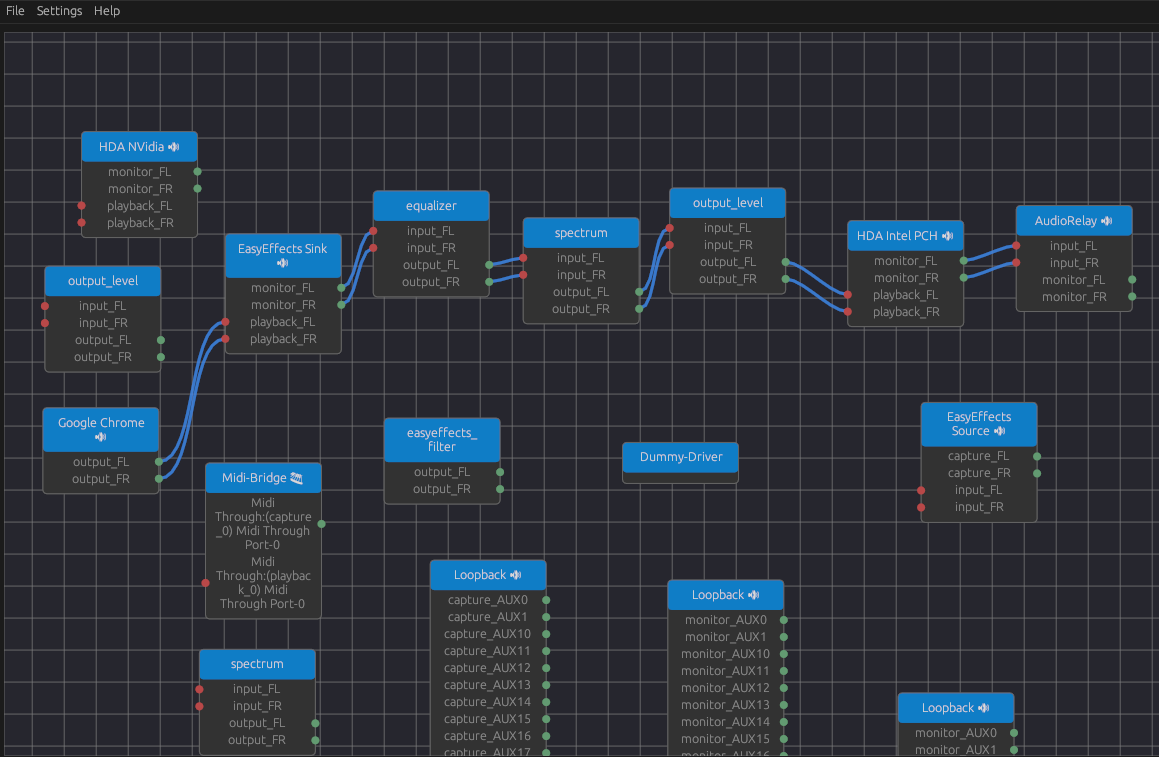
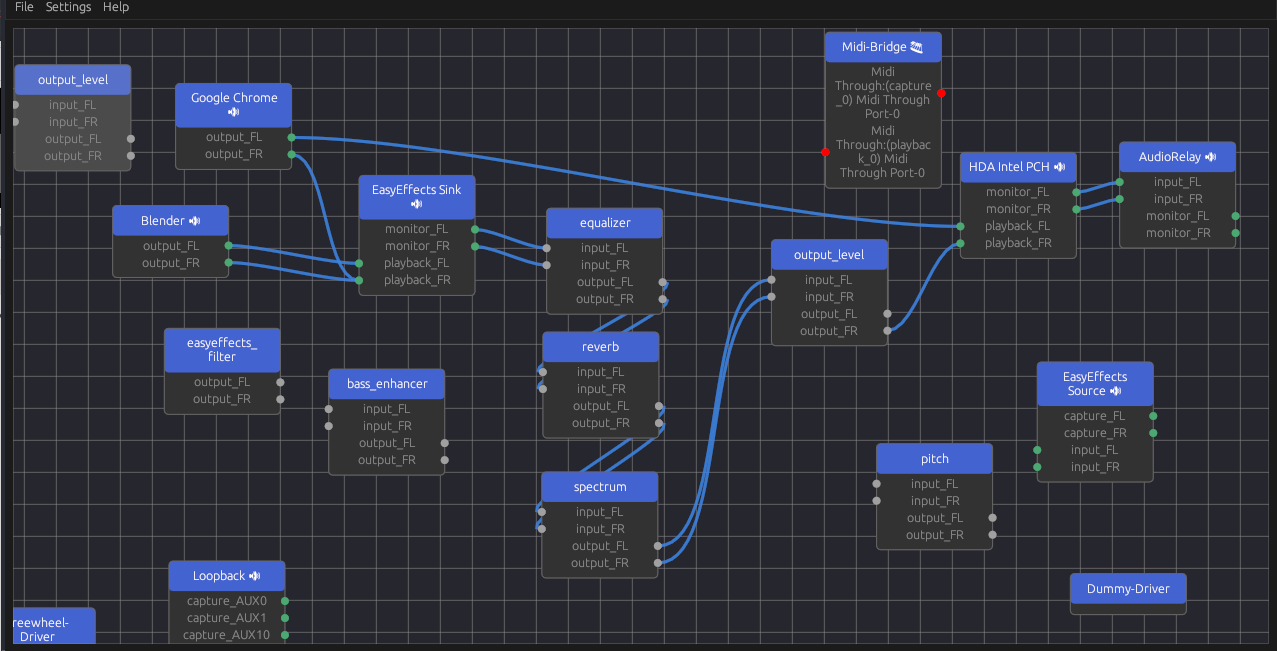
prep for release 1

diff --git a/src/ui/graph.rs b/src/ui/graph.rs
@@ -7,6 +7,8 @@ use crate::pipewire_impl::MediaType;
 
 use super::{link::Link, node::Node, Theme};
 
+///Represents changes to any links that might happend in the ui
+///These changes are used to send updates to the pipewire thread
 pub enum LinkUpdate {
     Created {
         from_port: u32,
@@ -19,13 +21,18 @@ pub enum LinkUpdate {
     Removed(u32),
 }
 pub struct Graph {
+    nodes_ctx: egui_nodes::Context,
     nodes: HashMap<u32, Node>, //Node id to Node
     links: HashMap<u32, Link>, //Link id to Link
 }
 
 impl Graph {
     pub fn new() -> Self {
+        //context.attribute_flag_push(egui_nodes::AttributeFlags::EnableLinkCreationOnSnap);
+        //context.attribute_flag_push(egui_nodes::AttributeFlags::EnableLinkDetachWithDragClick);
         Self {
+            nodes_ctx: egui_nodes::Context::default(),
+
             nodes: HashMap::new(),
             links: HashMap::new(),
         }
@@ -77,8 +84,11 @@ impl Graph {
 
         removed
     }
+    ///Naive, inefficient and weird implementation of Kahn's algorithm
     fn topo_sort(&self) -> Vec<u32> {
-        //FIX ME: Optimize...
+        //FIX ME
+
+        //Node id to in-degree(no. of nodes that output to this node)
         let mut indegrees = self
             .nodes
             .keys()
@@ -94,10 +104,20 @@ impl Graph {
             })
             .collect::<HashMap<u32, usize>>();
 
-        let adj_list = self.nodes.keys().map(|&id| {
-            let adj = self.links.values().filter(|link|link.from_node == id).map(|link|link.to_node).collect::<HashSet<u32>>();
-            (id, adj)
-        }).collect::<HashMap<u32, _>>();
+        //Adjacency hashmap, maps node id to neighbouring node ids
+        let adj_list = self
+            .nodes
+            .keys()
+            .map(|&id| {
+                let adj = self
+                    .links
+                    .values()
+                    .filter(|link| link.from_node == id)
+                    .map(|link| link.to_node)
+                    .collect::<HashSet<u32>>();
+                (id, adj)
+            })
+            .collect::<HashMap<u32, _>>();
 
         //println!("Indegrees {:?}", indegrees);
         //println!("Adj list {:?}", self.adj_list);
@@ -105,12 +125,14 @@ impl Graph {
         let mut queue: Vec<u32> = Vec::new();
 
         for node_id in self.nodes.keys() {
+            //Put nodes which are "detached"(i.e of in-degree=0) from the graph into the queue for processing
             if indegrees[node_id] == 0 {
                 queue.push(*node_id);
             }
         }
 
         let mut top_order = Vec::new();
+
         while !queue.is_empty() {
             //println!("Queue: {:?}", queue);
             let u = queue.remove(0);
@@ -118,10 +140,15 @@ impl Graph {
             top_order.push(u);
 
             if let Some(adj_nodes) = adj_list.get(&u) {
+                //Check nodes that lead out from this node
                 for node_id in adj_nodes {
+                    //Remove link from parent node to this node
                     let indegree_of_node = indegrees.get_mut(node_id).unwrap();
                     *indegree_of_node -= 1;
+
+                    //Check if that detached the node from the graph
                     if *indegree_of_node == 0 {
+                        //If it did, we have a new detached node to process
                         queue.push(*node_id);
                     }
                 }
@@ -133,19 +160,23 @@ impl Graph {
     pub fn draw(
         &mut self,
         ctx: &egui::CtxRef,
-        nodes_ctx: &mut egui_nodes::Context,
         ui: &mut egui::Ui,
         theme: &Theme,
     ) -> Option<LinkUpdate> {
+        //Find the topologically sorted order of nodes in the graph
+        //Nodes are currently laid out based on this order
         let order = self.topo_sort();
+
         //println!("{:?}", order);
 
-        let debug = cfg!(debug_assertions) && ctx.input().modifiers.ctrl;
+        //In debug mode, Ctrl is used to trigger the debug view
+        let debug_view = cfg!(debug_assertions) && ctx.input().modifiers.ctrl;
 
         let mut ui_nodes = Vec::with_capacity(self.nodes.len());
 
         let padding = 75.0;
         let mut x = padding;
+
         for node_id in order {
             let node = self.nodes.get_mut(&node_id).unwrap();
 
@@ -160,9 +191,13 @@ impl Graph {
             );
 
             if node.newly_added {
-                ui_node.with_origin(egui::pos2(x , rand::random::<f32>() * ui.available_height()));
-                x += padding;
                 node.newly_added = false;
+
+                //Horizontally shift each node to the right of the previous one
+                //Also put it at a random point vertically
+                ui_node.with_origin(egui::pos2(x, rand::random::<f32>() * ui.available_height()));
+
+                x += padding;
             }
 
             let media_type = node.media_type();
@@ -174,8 +209,8 @@ impl Graph {
             };
 
             let title = {
-                if debug {
-                    format!("{}[{}]{}", node.name(), node.id(), kind)
+                if debug_view {
+                    format!("{}[{}]{}", node.name(), node.id(), kind) //Display node id if in debug view
                 } else {
                     format!("{} {}", node.name(), kind)
                 }
@@ -183,7 +218,7 @@ impl Graph {
 
             ui_node.with_title(|ui| egui::Label::new(title).text_color(theme.text_color).ui(ui));
 
-            Self::draw_ports(&mut ui_node, node, theme, debug);
+            Self::draw_ports(&mut ui_node, node, theme, debug_view);
 
             ui_nodes.push(ui_node);
         }
@@ -197,11 +232,13 @@ impl Graph {
             )
         });
 
-        nodes_ctx.show(ui_nodes, links, ui);
+        self.nodes_ctx.show(ui_nodes, links, ui);
 
-        if let Some(link) = nodes_ctx.link_destroyed() {
+        if let Some(link) = self.nodes_ctx.link_destroyed() {
             Some(LinkUpdate::Removed(link as u32))
-        } else if let Some((from_port, from_node, to_port, to_node, _)) = nodes_ctx.link_created_node() {
+        } else if let Some((from_port, from_node, to_port, to_node, _)) =
+            self.nodes_ctx.link_created_node()
+        {
             log::debug!(
                 "Created new link:\nfrom_port {}, to_port {}, from_node {}, to_node {}",
                 from_port,
@@ -227,7 +264,7 @@ impl Graph {
             None
         }
     }
-    
+
     // pub fn draw_old(
     //     &mut self,
     //     ctx: &egui::CtxRef,
@@ -328,6 +365,7 @@ impl Graph {
     fn draw_ports(ui_node: &mut NodeConstructor, node: &Node, theme: &Theme, debug: bool) {
         let mut ports = node.ports().values().collect::<Vec<_>>();
 
+        //Sorts ports based on alphabetical ordering
         ports.sort_by(|a, b| a.name().cmp(b.name()));
 
         for port in ports {

diff --git a/src/ui/mod.rs b/src/ui/mod.rs
@@ -14,8 +14,8 @@ use link::Link;
 use node::Node;
 use port::Port;
 
-pub const WIDTH: u32 = 1280;
-pub const HEIGHT: u32 = 720;
+pub const INITIAL_WIDTH: u32 = 1280;
+pub const INITIAL_HEIGHT: u32 = 720;
 
 #[derive(Debug)]
 pub enum UiMessage {
@@ -60,7 +60,6 @@ pub struct GraphUI {
     graph: Graph,
     pipewire_receiver: Receiver<PipewireMessage>,
     pipewire_sender: Sender<UiMessage>,
-    nodes_ctx: egui_nodes::Context,
     theme: Theme,
     show_theme: bool,
     show_about: bool,
@@ -70,15 +69,10 @@ impl GraphUI {
         pipewire_receiver: Receiver<PipewireMessage>,
         pipewire_sender: Sender<UiMessage>,
     ) -> Self {
-        let context = egui_nodes::Context::default();
-        //context.attribute_flag_push(egui_nodes::AttributeFlags::EnableLinkCreationOnSnap);
-        //context.attribute_flag_push(egui_nodes::AttributeFlags::EnableLinkDetachWithDragClick);
-
         GraphUI {
             graph: Graph::new(),
             pipewire_receiver,
             pipewire_sender,
-            nodes_ctx: context,
             theme: Theme::default(),
             show_theme: false,
             show_about: false,
@@ -147,6 +141,7 @@ impl GraphUI {
                 })
             });
     }
+    ///Update the graph ui based on the message sent by the pipewire thread
     fn process_message(&mut self, message: PipewireMessage) {
         let _graph = &mut self.graph;
 
@@ -208,6 +203,7 @@ impl GraphUI {
             }
         };
     }
+    ///Keep processing messages in a non blocking way until there aren't any new messages
     fn pump_messages(&mut self) {
         loop {
             match self.pipewire_receiver.try_recv() {
@@ -239,9 +235,13 @@ impl epi::App for GraphUI {
         }
     }
 
+    /// Called by the frame work to save state before shutdown.
+    /// Note that you must enable the `persistence` feature for this to work.
     fn save(&mut self, storage: &mut dyn epi::Storage) {
         epi::set_value(storage, "theme", &self.theme);
     }
+
+    /// Called each time the UI needs repainting, which may be many times per second.
     fn update(&mut self, ctx: &egui::CtxRef, frame: &mut epi::Frame<'_>) {
         self.pump_messages();
 
@@ -266,10 +266,8 @@ impl epi::App for GraphUI {
         });
 
         egui::CentralPanel::default().show(ctx, |ui| {
-            if let Some(link_update) =
-                self.graph
-                    .draw(ctx, &mut self.nodes_ctx, ui, &self.theme)
-            {
+            //If any new links were created/removed, notify the pipewire thread
+            if let Some(link_update) = self.graph.draw(ctx, ui, &self.theme) {
                 match link_update {
                     graph::LinkUpdate::Created {
                         from_port,
@@ -311,7 +309,7 @@ impl epi::App for GraphUI {
 }
 
 pub fn run_graph_ui(receiver: Receiver<PipewireMessage>, sender: Sender<UiMessage>) {
-    let initial_window_size = egui::vec2(WIDTH as f32, HEIGHT as f32);
+    let initial_window_size = egui::vec2(INITIAL_WIDTH as f32, INITIAL_HEIGHT as f32);
     eframe::run_native(
         Box::new(GraphUI::new(receiver, sender)),
         eframe::NativeOptions {

diff --git a/src/pipewire_impl/mod.rs b/src/pipewire_impl/mod.rs
@@ -70,6 +70,8 @@ struct ProxyLink {
     proxy: pipewire::link::Link,
     listener: pipewire::link::LinkListener,
 }
+///Pipewire mainloop runs on a separate thread, and notifies the UI thread of any changes using a mpsc channel
+/// thread_main is the entry point of this thread
 pub fn thread_main(
     sender: Rc<Sender<PipewireMessage>>,
     receiver: pipewire::channel::Receiver<UiMessage>,
@@ -93,6 +95,7 @@ pub fn thread_main(
 
     let _listener = registry
         .add_listener_local()
+        //Called when a global object is added
         .global({
             move |global| match global.type_ {
                 pipewire::types::ObjectType::Node => {
@@ -107,6 +110,7 @@ pub fn thread_main(
                 _ => {}
             }
         })
+        //Called when a global object is removed
         .global_remove(move |id| match state_rm.borrow_mut().remove(id) {
             Some(object) => {
                 let message = match object {
@@ -128,6 +132,8 @@ pub fn thread_main(
         })
         .register();
 
+    //This thread also receives messages from the ui thread to update the pipewire graph
+    //Messages are sent on a special pipewire channel which needs to be registered with the main loop
     let _receiver = receiver.attach(&mainloop, {
         let state = state_rm_link;
         let mainloop = mainloop.clone();

diff --git a/src/main.rs b/src/main.rs
@@ -9,9 +9,12 @@ fn main() -> Result<(), Box<dyn std::error::Error>> {
         println!("Failed to init logger");
     }
 
+    //The Ui (main thread) and PipeWire client run on different threads, communication between the threads is facilitated using message passing
+
     let (sender, receiver) = std::sync::mpsc::channel();
     let (pwsender, pwreciever) = pipewire::channel::channel();
 
+    //Set's up pipewire thread
     let pw_thread_handle = thread::spawn(move || {
         let sender = Rc::new(sender);
 

diff --git a/src/pipewire_impl/state.rs b/src/pipewire_impl/state.rs
@@ -5,7 +5,8 @@ pub enum GlobalObject {
     Link,
     Port { node_id: u32, id: u32 },
 }
-
+///For internal state tracking, this has to be done because pipewire only provides ids of the objects it removes,
+///which is insufficient to safely remove an object of a particular type, hence this struct serves as a lookup from id to object specific info
 pub struct State {
     objects: HashMap<u32, GlobalObject>,
 }

diff --git a/src/ui/node.rs b/src/ui/node.rs
@@ -9,7 +9,7 @@ pub struct Node {
     id: u32,
     name: String,
     media_type: Option<MediaType>,
-    ports: HashMap<u32, Port>,
+    ports: HashMap<u32, Port>, //Port id to Port
     pub(super) newly_added: bool,
 }
 
